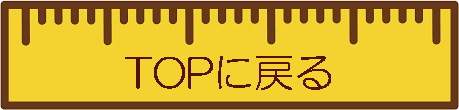
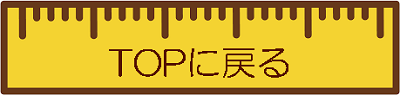
集大成

diff --git a/app/assets/stylesheets/application.css b/app/assets/stylesheets/application.css
@@ -42,8 +42,8 @@ body { font-size: 150%; }
 }
     
 .top{
-    width: 148x;
-    height: 38px;
+    width: 110x;
+    height: 26px;
     position: relative
     right: 400
     top: 0px;
